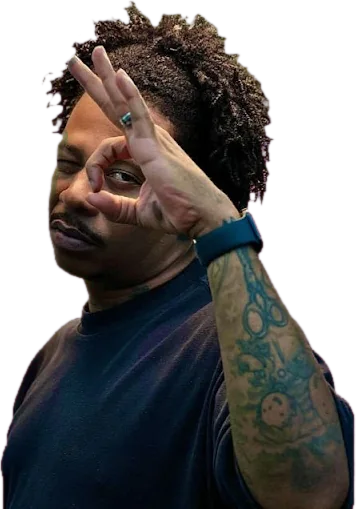
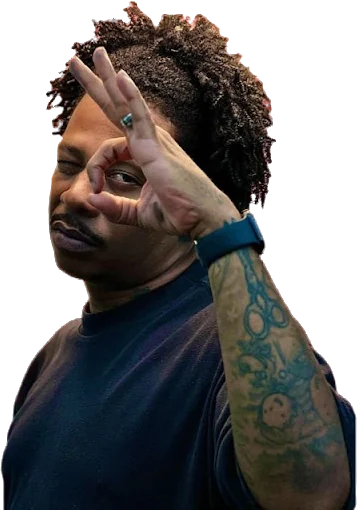
Refaz o recorte dos retratos da equipe sem halos nem furos
O recorte antigo media só "o quanto o pixel é vermelho" e confundia a
pele em sombra e a camiseta vermelha do Thaylor com o fundo, deixando
furos no rosto/pescoço, blocos na camiseta e franjas vermelhas no cabelo.

O novo recortar_equipe.py:
- modela a cor local do fundo (acompanha o degradê do Funny) e mede a
  distância até ela, com peso maior no canal verde;
- usa trimapa e desmistura C = a·F + (1-a)·B na borda, preservando fios;
- descontamina a cor da borda e remove o reflexo do fundo nos cachos;
- grava direto os WebP finais e gera prévias com --preview.

diff --git a/ferramentas/recortar_equipe.py b/ferramentas/recortar_equipe.py
@@ -1,32 +1,227 @@
-"""Remove o fundo vermelho dos retratos da equipe (chroma key + remoção de vazamento).
+"""Recorta os retratos da equipe (fundo vermelho) e gera os WebP usados no site.
 
-Uso: python recortar_equipe.py  -> gera cut/<nome>.png com transparência
+Entrada : imagens/funny.png, imagens/miguel.png, imagens/thaylor.png (originais, fundo vermelho)
+Saída   : imagens/equipe-<nome>.webp (RGBA, recortado, altura máx. 900 px)
+
+Uso (na raiz do projeto ou em qualquer pasta):
+    pip install pillow numpy scipy
+    python ferramentas/recortar_equipe.py                  # gera os três WebP
+    python ferramentas/recortar_equipe.py --preview pasta  # também salva prévias sobre fundos de teste
+    python ferramentas/recortar_equipe.py miguel           # só um retrato
+
+Como funciona (por que não basta "remover o vermelho"):
+  A pele em sombra e a camiseta do Thaylor também são vermelhas. Por isso o recorte não
+  mede "quanto o pixel é vermelho", e sim a distância até a COR DO FUNDO naquele ponto.
+  1. Sementes de fundo: pixels vermelho-saturados, ligados à borda da foto (ou regiões grandes,
+     como o vão entre os dedos do Funny).
+  2. Modelo local do fundo: média ponderada das sementes com desfoque largo. Acompanha o
+     degradê do fundo do Funny e é extrapolada para baixo da pessoa.
+  3. Trimapa: perto da cor do fundo = fundo; longe = pessoa; o meio é a borda incerta.
+  4. Na borda, a transparência vem do "desmisturar" C = a·F + (1-a)·B, com B = fundo local e
+     F = cor da pessoa estimada nos vizinhos opacos. Isso preserva fios de cabelo.
+  5. Descontaminação: a cor da borda é recalculada sem a parcela do fundo, o que elimina
+     o halo vermelho/rosa no cabelo, no pescoço e nas roupas.
+  6. Limpeza: remove manchas soltas de fundo dentro da pessoa e ilhas soltas fora dela.
 """
-from PIL import Image, ImageFilter
-import numpy as np, sys
+from __future__ import annotations
+
+import argparse
 import os
-SRC = os.path.join(os.path.dirname(os.path.abspath(__file__)), '..', 'imagens') + '/'
-os.makedirs('cut', exist_ok=True)
-def ss(e0, e1, x):
-    t = np.clip((x - e0) / (e1 - e0), 0, 1); return t * t * (3 - 2 * t)
-for name in ('funny', 'miguel', 'thaylor'):
-    im = np.array(Image.open(SRC + name + '.png').convert('RGB')).astype(np.float32)
-    R, G, B = im[..., 0], im[..., 1], im[..., 2]
-    red = R - np.maximum(G, B)
-    bg = ss(85, 125, red) * ss(110, 170, R)
-    a = 1 - bg
-    A = Image.fromarray((a * 255).astype(np.uint8)).filter(ImageFilter.MinFilter(3)).filter(ImageFilter.GaussianBlur(0.8))
-    a = np.array(A).astype(np.float32) / 255
-    # tirar vazamento vermelho nas bordas
-    edge = np.array(Image.fromarray((a * 255).astype(np.uint8)).filter(ImageFilter.MinFilter(7))).astype(np.float32) / 255
-    spill = (edge < 0.99) & (red > 25)
-    lim = np.maximum(G, B) + 14
-    R2 = np.where(spill, np.minimum(R, lim), R)
-    out = np.dstack([R2, G, B, a * 255]).clip(0, 255).astype(np.uint8)
-    img = Image.fromarray(out, 'RGBA')
-    bbox = img.getchannel('A').point(lambda v: 255 if v > 8 else 0).getbbox()
+
+import numpy as np
+from PIL import Image
+from scipy import ndimage as ndi
+
+ROOT = os.path.abspath(os.path.join(os.path.dirname(__file__), '..'))
+IMG_DIR = os.path.join(ROOT, 'imagens')
+MAX_HEIGHT = 900
+WEBP_QUALITY = 86
+
+# Ajustes por retrato. Distâncias em RGB (0–255) até a cor local do fundo.
+#   bg_dist: abaixo disso é fundo certo   fg_dist: acima disso é pessoa certa
+#   hole_area: furos de fundo dentro da pessoa menores que isso (fração da imagem) são preenchidos
+#   red_key: (início, fim) da chave de vermelho R - max(G, B). Só para quem NÃO veste vermelho;
+#            o Thaylor (camiseta vermelha) usa apenas a distância ao fundo.
+#   seed_max_g: verde máximo de um pixel "semente" de fundo (o fundo do Funny tem degradê rosado,
+#               G até ~70; nos outros o fundo é chapado, G≈0, e a camiseta clara do Thaylor tem G≥35)
+PORTRAITS = {
+    'funny':   {'bg_dist': 40, 'fg_dist': 110, 'hole_area': 0.00004, 'seed_max_g': 80, 'red_key': (75, 135)},
+    'miguel':  {'bg_dist': 40, 'fg_dist': 110, 'hole_area': 0.00004, 'seed_max_g': 25, 'red_key': (75, 135)},
+    'thaylor': {'bg_dist': 40, 'fg_dist': 95, 'hole_area': 0.00004, 'seed_max_g': 18},
+}
+
+
+def blur_weighted(values: np.ndarray, weight: np.ndarray, sigma: float) -> tuple[np.ndarray, np.ndarray]:
+    """Convolução normalizada: média local de `values` só onde `weight` > 0."""
+    w = ndi.gaussian_filter(weight, sigma)
+    out = np.empty_like(values)
+    for c in range(values.shape[-1]):
+        out[..., c] = ndi.gaussian_filter(values[..., c] * weight, sigma)
+    return out / np.maximum(w, 1e-6)[..., None], w
+
+
+def background_seeds(rgb: np.ndarray, hole_area: float, seed_max_g: float) -> np.ndarray:
+    R, G, B = rgb[..., 0], rgb[..., 1], rgb[..., 2]
+    seed = (R > 170) & (G < seed_max_g) & (B < 115) & (R - np.maximum(G, B) > 115)
+    seed = ndi.binary_opening(seed, iterations=2)
+    # Só vale como fundo o que toca a borda da foto ou é uma região grande (vãos entre braço/dedos).
+    labels, n = ndi.label(seed)
+    if n == 0:
+        return seed
+    border = np.unique(np.concatenate([labels[0], labels[-1], labels[:, 0], labels[:, -1]]))
+    sizes = ndi.sum(seed, labels, index=np.arange(1, n + 1))
+    keep = np.zeros(n + 1, bool)
+    keep[1:] = sizes > hole_area * seed.size
+    keep[border] = True
+    keep[0] = False
+    return keep[labels]
+
+
+def cut_portrait(rgb: np.ndarray, bg_dist: float, fg_dist: float, hole_area: float,
+                 seed_max_g: float, red_key: tuple[float, float] | None = None) -> np.ndarray:
+    """Devolve RGBA float (0–255) com fundo removido e bordas descontaminadas."""
+    h, w, _ = rgb.shape
+    scale = max(h, w) / 1024
+
+    # 1–2. fundo local (acompanha degradês e é extrapolado para trás da pessoa)
+    seed = background_seeds(rgb, hole_area, seed_max_g)
+    bg_local, wgt = blur_weighted(rgb, ndi.binary_erosion(seed, iterations=2).astype(np.float32), 18 * scale)
+    bg_far, _ = blur_weighted(rgb, seed.astype(np.float32), 90 * scale)
+    mix = np.clip(wgt / 0.25, 0, 1)[..., None]
+    bg = bg_local * mix + bg_far * (1 - mix)
+
+    # 3. trimapa pela distância à cor do fundo. O verde pesa 2x: o fundo tem G≈0, e é o canal
+    #    que mais separa o fundo da camiseta vermelha do Thaylor e da pele em sombra.
+    dist = np.linalg.norm((rgb - bg) * np.array([1.0, 2.0, 1.0], np.float32), axis=-1)
+    sure_bg = dist < bg_dist
+    fg = dist > fg_dist
+    # Retratos sem nada vermelho na pessoa: vermelho saturado (R muito acima de G e B) é fundo
+    # ou o brilho rosado que ficou da edição original em volta do cabelo.
+    key_alpha = None
+    if red_key:
+        redness = rgb[..., 0] - np.maximum(rgb[..., 1], rgb[..., 2])
+        lo, hi = red_key
+        tk = np.clip((redness - lo) / (hi - lo), 0, 1)
+        key_alpha = 1 - tk * tk * (3 - 2 * tk)
+        fg &= key_alpha > 0.5
+        sure_bg |= key_alpha < 0.02
+    # pessoa = componente principal + partes grandes (descarta pontinhos soltos no fundo)
+    labels, n = ndi.label(fg)
+    if n:
+        sizes = ndi.sum(fg, labels, index=np.arange(1, n + 1))
+        keep = np.zeros(n + 1, bool)
+        keep[1:] = sizes > max(sizes.max() * 0.002, 40)
+        fg = keep[labels]
+    # furos minúsculos (ruído/compressão na pele ou na roupa) viram pessoa; vãos reais ficam abertos
+    holes = ndi.binary_fill_holes(fg) & ~fg
+    hl, hn = ndi.label(holes)
+    if hn:
+        sizes = ndi.sum(holes, hl, index=np.arange(1, hn + 1))
+        small = np.zeros(hn + 1, bool)
+        small[1:] = sizes < hole_area * holes.size
+        fg |= small[hl] & ~sure_bg
+    # núcleo opaco: a pessoa sem os 2 px da borda, que costumam ser mistura de pessoa + fundo
+    core = ndi.binary_erosion(fg, iterations=max(2, round(2 * scale)))
+    sure_bg &= ~fg
+
+    # 4. cor da pessoa (vizinhos do núcleo) + desmistura C = a·F + (1-a)·B na faixa incerta
+    near_idx = ndi.distance_transform_edt(~core, return_distances=False, return_indices=True)
+    fg_nearest = rgb[near_idx[0], near_idx[1]]
+    fg_soft, wgt_fg = blur_weighted(rgb, core.astype(np.float32), 3 * scale)
+    t = np.clip(wgt_fg / 0.3, 0, 1)[..., None]
+    fg_col = fg_soft * t + fg_nearest * (1 - t)
+    d = fg_col - bg
+    alpha = np.sum((rgb - bg) * d, axis=-1) / np.maximum(np.sum(d * d, axis=-1), 1.0)
+    alpha = np.clip(alpha, 0, 1)
+    alpha[core] = 1.0
+    alpha[sure_bg] = 0.0
+    if key_alpha is not None:
+        alpha = np.minimum(alpha, key_alpha)
+        core &= key_alpha > 0.99
+    # a faixa incerta só existe junto à pessoa: longe dela é ruído do fundo
+    alpha[~ndi.binary_dilation(fg, iterations=max(2, round(3 * scale)))] = 0.0
+    # aperta levemente a borda para não sobrar franja e tira o serrilhado
+    alpha = np.clip((alpha - 0.05) / 0.9, 0, 1)
+    alpha = np.where(core, 1.0, np.minimum(ndi.gaussian_filter(alpha, 0.5 * scale), np.maximum(alpha, 0.0) + 0.15))
+    alpha = np.clip(alpha, 0, 1)
+
+    # 5. descontaminação: F = (C - (1-a)B) / a, misturada à cor dos vizinhos quando a é baixo
+    a = alpha[..., None]
+    unmixed = np.clip((rgb - (1 - a) * bg) / np.maximum(a, 0.2), 0, 255)
+    trust = np.clip((a - 0.2) / 0.6, 0, 1)
+    color = np.where(core[..., None], rgb, unmixed * trust + fg_col * (1 - trust))
+    if red_key:
+        # Nesses retratos nada na pessoa é vermelho saturado: na borda, a cromaticidade vem da cor
+        # interna vizinha (cabelo/pele/roupa) e só o brilho do pixel é mantido.
+        edge = ~core[..., None]
+        lum = lambda c: c @ np.array([0.299, 0.587, 0.114], np.float32)
+        ratio = np.clip(lum(color) / np.maximum(lum(fg_col), 1.0), 0.6, 1.4)[..., None]
+        color = np.where(edge, fg_col * ratio, color)
+        # Reflexo do fundo nos cachos (alguns px para dentro do contorno): o fundo tem B > G, então
+        # o reflexo puxa para magenta. A pele tem G > B e fica intacta.
+        R, G, B = color[..., 0], color[..., 1], color[..., 2]
+        depth = ndi.distance_transform_edt(alpha > 0.5)
+        reach = np.clip((45 * scale - depth) / (20 * scale), 0, 1)  # total até 25 px, some aos 45 px
+        redness = R - np.maximum(G, B)
+        magenta = (B >= G - 2) & (redness > 18)          # reflexo frio (cachos do Miguel)
+        hot = ~magenta & (redness > 0.5 * R) & (R > 110)  # vermelho vivo nas pontas do cabelo do Funny
+        target_r = np.where(magenta, np.maximum(G, B) + 12, np.maximum(G, B) * 1.3)
+        w_sp = reach * (magenta | hot)
+        color[..., 0] = R - w_sp * np.maximum(R - target_r, 0)
+        color[..., 2] = B - w_sp * magenta * np.maximum(B - (G + 6), 0)
+    color = np.clip(color, 0, 255)
+
+    # 6. remove ilhas soltas (resíduos do fundo) fora da pessoa
+    solid = alpha > 0.02
+    labels, n = ndi.label(solid)
+    if n:
+        sizes = ndi.sum(solid, labels, index=np.arange(1, n + 1))
+        keep = np.zeros(n + 1, bool)
+        keep[1:] = sizes > sizes.max() * 0.01
+        alpha *= keep[labels]
+
+    return np.dstack([color, alpha * 255])
+
+
+def to_image(rgba: np.ndarray) -> Image.Image:
+    img = Image.fromarray(np.round(rgba).clip(0, 255).astype(np.uint8), 'RGBA')
+    bbox = img.getchannel('A').point(lambda v: 255 if v > 6 else 0).getbbox()
     img = img.crop(bbox)
-    img.save(f'cut/{name}.png')
-    prev = Image.new('RGBA', img.size, (14, 12, 11, 255)); prev.alpha_composite(img)
-    prev.convert('RGB').resize((img.width * 360 // img.height, 360)).save(f'cut/{name}_prev.jpg')
-    print(name, img.size)
+    if img.height > MAX_HEIGHT:
+        size = (round(img.width * MAX_HEIGHT / img.height), MAX_HEIGHT)
+        # redimensiona em alfa pré-multiplicado para não escurecer nem tingir as bordas
+        img = img.convert('RGBa').resize(size, Image.LANCZOS).convert('RGBA')
+    return img
+
+
+def save_preview(img: Image.Image, name: str, folder: str) -> None:
+    os.makedirs(folder, exist_ok=True)
+    tiles = []
+    for bg in ((255, 255, 255), (40, 180, 70), (10, 10, 10), (255, 85, 0)):
+        t = Image.new('RGBA', img.size, bg + (255,))
+        t.alpha_composite(img)
+        tiles.append(t.convert('RGB'))
+    sheet = Image.new('RGB', (img.width * len(tiles), img.height))
+    for i, t in enumerate(tiles):
+        sheet.paste(t, (i * img.width, 0))
+    sheet.save(os.path.join(folder, f'{name}_prev.jpg'), quality=88)
+
+
+def main() -> None:
+    parser = argparse.ArgumentParser(description=__doc__, formatter_class=argparse.RawDescriptionHelpFormatter)
+    parser.add_argument('names', nargs='*', default=list(PORTRAITS), choices=list(PORTRAITS))
+    parser.add_argument('--preview', metavar='PASTA', help='salva prévias sobre branco, verde, preto e laranja')
+    args = parser.parse_args()
+
+    for name in args.names:
+        rgb = np.asarray(Image.open(os.path.join(IMG_DIR, f'{name}.png')).convert('RGB'), dtype=np.float32)
+        img = to_image(cut_portrait(rgb, **PORTRAITS[name]))
+        out = os.path.join(IMG_DIR, f'equipe-{name}.webp')
+        img.save(out, 'WEBP', quality=WEBP_QUALITY, method=6, exact=False)
+        if args.preview:
+            save_preview(img, name, args.preview)
+        print(f'{name}: {img.width}x{img.height} -> {os.path.relpath(out, ROOT)}')
+
+
+if __name__ == '__main__':
+    main()
